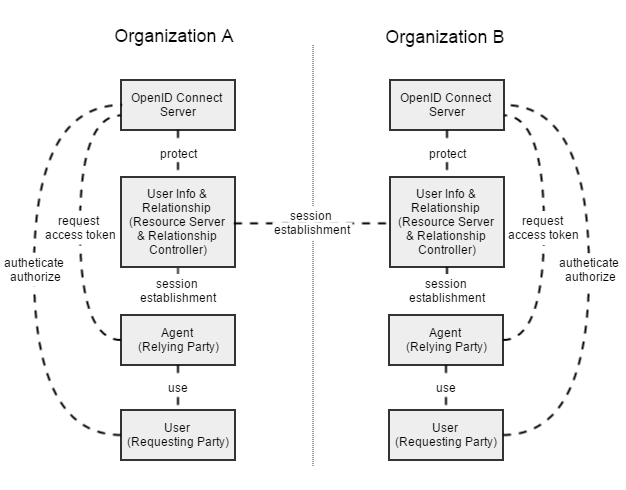
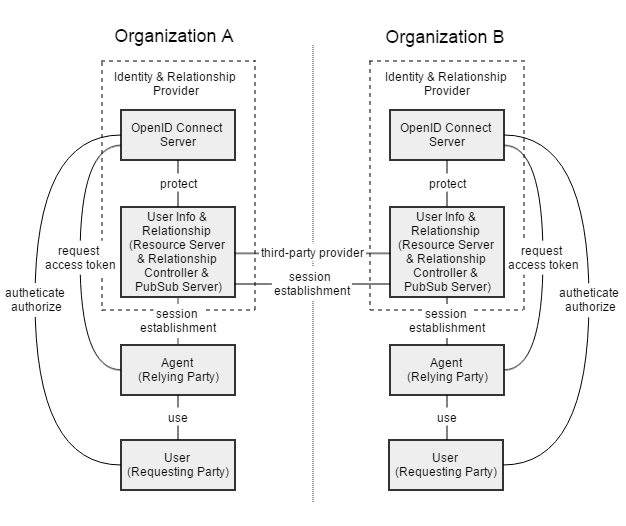
Identity and Relationship Provider

diff --git a/ibn.html b/ibn.html
@@ -47,7 +47,7 @@
 				<ul> 
 					<li><a href="index.html">Home</a></li>
 					<li><a href="ioe.html">Internet of Everything</a></li>
-					<li><a href="idm.html">IdM</a></li>
+					<li><a href="idp.html">IdP</a></li>
 					<li><a href="irm.html">IRM</a></li>
 					<li class="current"><a href="ibn.html">IBN</a></li>
 					<li><a href="iot.html">IoT</a></li>
@@ -105,11 +105,19 @@
 						</p>
 						
 						<p>
-							An Agent, can be for example, the User Agent, the File Transfer Agent or the Internet of Things Agent (Home Health Monitoring Agent, Refrigerator Agent etc.).
+							The Agent, can be for example, the User Agent, the File Transfer Agent or the Internet of Things Agent (Home Health Monitoring Agent, Refrigerator Agent etc.).
 						</p>
 						
 						<p>
-							A Relationship Controller controls relationships between users, agents and between users and agents.
+							The Relationship Controller controls relationships between users, agents and between users and agents.
+						</p>
+						
+						<p>
+						    The Identity and Relationship Provider (IRP) is a trusted place that after credential validation issues identification information and where relationship management takes place.
+						</p>
+						
+						<p>
+							The Publish-Subscribe Service can be integrated into the IRP or run as an external Relaying Party.
 						</p>
 						
 						<p>

diff --git a/idp.html b/idp.html
@@ -70,7 +70,8 @@
 						</p-->
 
 						<p>
-							An identity provider is a trusted organization responsible for issuing identification information operated by authentication and authorization services.
+							<!--An identity provider (IdP) is a trusted organization responsible for issuing identification information operated by authentication and authorization services.-->
+							An Identity Provider (IdP) is a trusted place issuing identification information after credential validation.
 						</p>
 						
 						<p>

diff --git a/index.html b/index.html
@@ -50,7 +50,7 @@
 				<ul> 
 					<li class="current"><a href="index.html">Home</a></li>
 					<li><a href="ioe.html">Internet of Everything</a></li>
-					<li><a href="idm.html">IdM</a></li>
+					<li><a href="idp.html">IdP</a></li>
 					<li><a href="irm.html">IRM</a></li>
 					<li><a href="ibn.html">IBN</a></li>
 					<li><a href="iot.html">IoT</a></li>

diff --git a/ioe.html b/ioe.html
@@ -47,7 +47,7 @@
 				<ul> 
 					<li><a href="index.html">Home</a></li>
 					<li class="current"><a href="ioe.html">Internet of Everything</a></li>
-					<li><a href="idm.html">IdM</a></li>
+					<li><a href="idp.html">IdP</a></li>
 					<li><a href="irm.html">IRM</a></li>
 					<li><a href="ibn.html">IBN</a></li>
 					<li><a href="iot.html">IoT</a></li>

diff --git a/iot.html b/iot.html
@@ -47,7 +47,7 @@
 				<ul> 
 					<li><a href="index.html">Home</a></li>
 					<li><a href="ioe.html">Internet of Everything</a></li>
-					<li><a href="idm.html">IdM</a></li>
+					<li><a href="idp.html">IdP</a></li>
 					<li><a href="irm.html">IRM</a></li>
 					<li><a href="ibn.html">IBN</a></li>
 					<li class="current"><a href="iot.html">IoT</a></li>

diff --git a/irm.html b/irm.html
@@ -47,7 +47,7 @@
 				<ul> 
 					<li><a href="index.html">Home</a></li>
 					<li><a href="ioe.html">Internet of Everything</a></li>
-					<li><a href="idm.html">IdM</a></li>
+					<li><a href="idp.html">IdP</a></li>
 					<li class="current"><a href="irm.html">IRM</a></li>
 					<li><a href="ibn.html">IBN</a></li>
 					<li><a href="iot.html">IoT</a></li>

diff --git a/airybox.html b/airybox.html
@@ -47,7 +47,7 @@
 				<ul> 
 					<li><a href="index.html">Home</a></li>
 					<li><a href="ioe.html">Internet of Everything</a></li>
-					<li><a href="idm.html">IdM</a></li>
+					<li><a href="idp.html">IdP</a></li>
 					<li><a href="irm.html">IRM</a></li>
 					<li><a href="ibn.html">IBN</a></li>
 					<li><a href="iot.html">IoT</a></li>

diff --git a/airykey.html b/airykey.html
@@ -47,7 +47,7 @@
 				<ul> 
 					<li><a href="index.html">Home</a></li>
 					<li><a href="ioe.html">Internet of Everything</a></li>
-					<li><a href="idm.html">IdM</a></li>
+					<li><a href="idp.html">IdP</a></li>
 					<li><a href="irm.html">IRM</a></li>
 					<li><a href="ibn.html">IBN</a></li>
 					<li><a href="iot.html">IoT</a></li>

diff --git a/ibp.html b/ibp.html
@@ -48,7 +48,7 @@
 				<ul> 
 					<li><a href="index.html">Home</a></li>
 					<li><a href="ioe.html">Internet of Everything</a></li>
-					<li><a href="idm.html">IdM</a></li>
+					<li><a href="idp.html">IdP</a></li>
 					<li><a href="irm.html">IRM</a></li>
 					<li><a href="ibn.html">IBN</a></li>
 					<li><a href="iot.html">IoT</a></li>

diff --git a/rcs.html b/rcs.html
@@ -47,7 +47,7 @@
 				<ul> 
 					<li><a href="index.html">Home</a></li>
 					<li><a href="ioe.html">Internet of Everything</a></li>
-					<li><a href="idm.html">IdM</a></li>
+					<li><a href="idp.html">IdP</a></li>
 					<li><a href="irm.html">IRM</a></li>
 					<li><a href="ibn.html">IBN</a></li>
 					<li><a href="iot.html">IoT</a></li>
